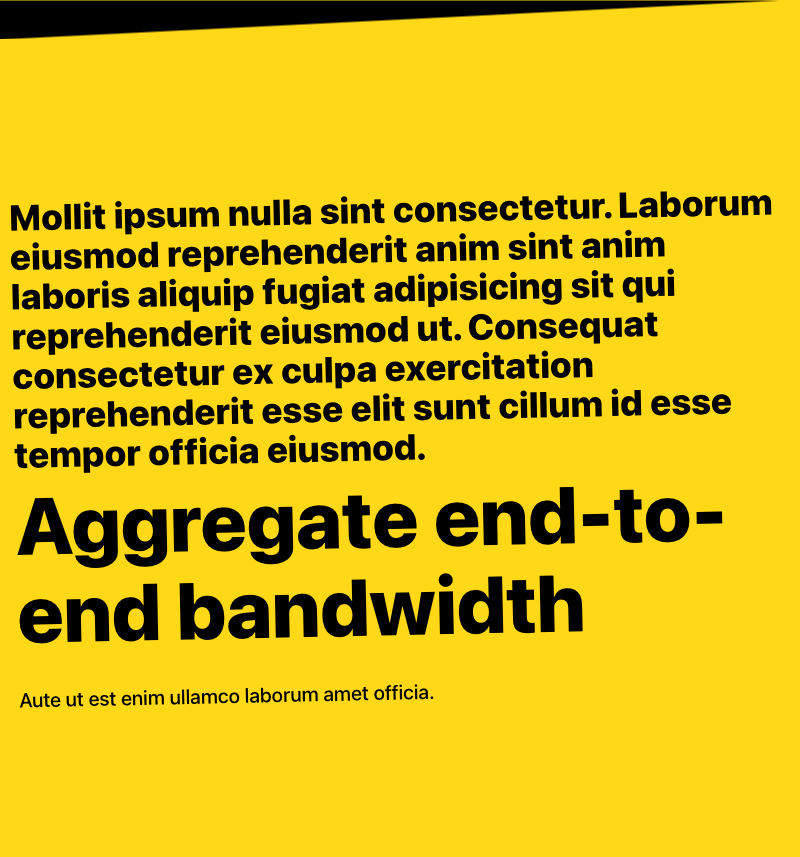
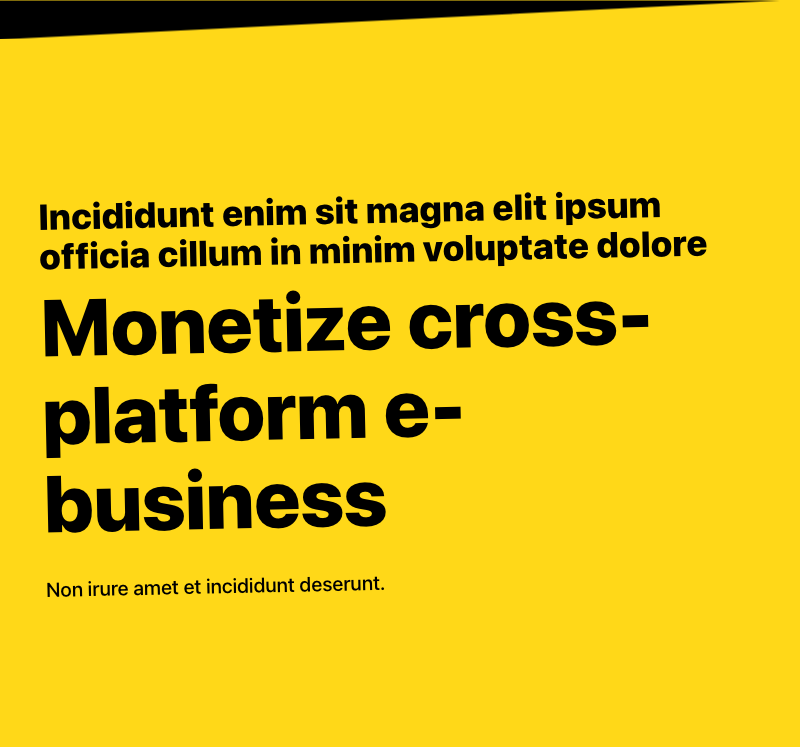
Fix slice screenshots

Changed region(s): [[0.0, 0.2155, 0.9688, 0.8313], [0.375, 0.0, 0.875, 0.0308], [0.0, 0.0308, 0.375, 0.0616]]

diff --git a/.slicemachine/assets/slices/ProjectsSlice/index.stories.js b/.slicemachine/assets/slices/ProjectsSlice/index.stories.js
@@ -5,5 +5,5 @@ export default {
 }
 
 
-export const _Default = () => <MyComponent slice={{"variation":"default","name":"Default","slice_type":"projects_slice","items":[{"image":{"dimensions":{"width":900,"height":500},"alt":"Placeholder image","copyright":null,"url":"https://images.unsplash.com/photo-1606248897732-2c5ffe759c04?w=900&h=500&fit=crop"},"about":[{"type":"paragraph","text":"In cupidatat mollit mollit aliquip quis qui enim tempor aliquip laboris minim proident enim. Nulla ad ex fugiat Lorem in aliqua veniam. Id tempor cupidatat do ipsum deserunt cupidatat commodo commodo ad fugiat eu dolore et.","spans":[]}],"tech":"syndicate turn-key methodologies","url":{"link_type":"Web","url":"https://prismic.io"}},{"image":{"dimensions":{"width":900,"height":500},"alt":"Placeholder image","copyright":null,"url":"https://images.unsplash.com/photo-1547394765-185e1e68f34e?w=900&h=500&fit=crop"},"about":[{"type":"paragraph","text":"Tempor nisi officia officia. Adipisicing quis sit cillum laborum.","spans":[]}],"tech":"reinvent cutting-edge ROI","url":{"link_type":"Web","url":"http://google.com"}},{"image":{"dimensions":{"width":900,"height":500},"alt":"Placeholder image","copyright":null,"url":"https://images.unsplash.com/photo-1596195689404-24d8a8d1c6ea?w=900&h=500&fit=crop"},"about":[{"type":"paragraph","text":"Labore laborum excepteur esse commodo occaecat pariatur proident esse adipisicing cupidatat aute excepteur do. Laborum magna deserunt laboris fugiat ipsum aliqua nisi dolore officia magna cillum sint pariatur.","spans":[]}],"tech":"drive world-class solutions","url":{"link_type":"Web","url":"http://google.com"}}],"primary":{"title":[{"type":"heading1","text":"Monetize best-of-breed supply-chains","spans":[]}]},"id":"_Default"}} />
+export const _Default = () => <MyComponent slice={{"variation":"default","name":"Default","slice_type":"projects_slice","items":[{"image":{"dimensions":{"width":900,"height":500},"alt":"Placeholder image","copyright":null,"url":"https://images.unsplash.com/photo-1560762484-813fc97650a0?w=900&h=500&fit=crop"},"about":[{"type":"paragraph","text":"Ullamco aliquip dolore irure. Duis cupidatat ad exercitation ullamco aliquip aliqua excepteur velit veniam qui magna culpa exercitation.","spans":[]}],"tech":"syndicate viral action-items","url":{"link_type":"Web","url":"http://google.com"}},{"image":{"dimensions":{"width":900,"height":500},"alt":"Placeholder image","copyright":null,"url":"https://images.unsplash.com/photo-1586952518485-11b180e92764?w=900&h=500&fit=crop"},"about":[{"type":"paragraph","text":"Non minim non laborum magna consectetur laborum cupidatat eiusmod amet do sunt exercitation officia minim aute.","spans":[]}],"tech":"iterate strategic platforms","url":{"link_type":"Web","url":"https://slicemachine.dev"}},{"image":{"dimensions":{"width":900,"height":500},"alt":"Placeholder image","copyright":null,"url":"https://images.unsplash.com/photo-1544731612-de7f96afe55f?w=900&h=500&fit=crop"},"about":[{"type":"paragraph","text":"Aliqua elit reprehenderit labore nostrud eiusmod elit laboris eiusmod fugiat elit mollit Lorem. Elit sunt exercitation aute amet nisi amet.","spans":[]}],"tech":"strategize value-added communities","url":{"link_type":"Web","url":"http://google.com"}}],"primary":{"title":[{"type":"heading1","text":"Deploy transparent eyeballs","spans":[]}]},"id":"_Default"}} />
 _Default.storyName = 'Default'

diff --git a/.slicemachine/assets/slices/ContentSlice/index.stories.js b/.slicemachine/assets/slices/ContentSlice/index.stories.js
@@ -5,5 +5,5 @@ export default {
 }
 
 
-export const _Default = () => <MyComponent slice={{"variation":"default","name":"Default","slice_type":"content_slice","items":[],"primary":{"image":{"dimensions":{"width":900,"height":500},"alt":"Placeholder image","copyright":null,"url":"https://images.unsplash.com/photo-1576662712957-9c79ae1280f8?w=900&h=500&fit=crop"},"content":[{"type":"paragraph","text":"Aliquip sit officia velit excepteur occaecat voluptate ipsum cillum ullamco minim. In magna culpa voluptate est. Eu do cupidatat anim irure.","spans":[]}]},"id":"_Default"}} />
+export const _Default = () => <MyComponent slice={{"variation":"default","name":"Default","slice_type":"content_slice","items":[],"primary":{"image":{"dimensions":{"width":900,"height":500},"alt":"Placeholder image","copyright":null,"url":"https://images.unsplash.com/photo-1500648767791-00dcc994a43e?w=900&h=500&fit=crop"},"content":[{"type":"paragraph","text":"Deserunt tempor nisi officia reprehenderit irure incididunt in pariatur commodo est. Cupidatat ex aliquip eu nostrud non non ut fugiat in mollit sunt elit. Id deserunt fugiat aliquip ea ipsum exercitation cupidatat laboris officia laborum enim consequat.","spans":[]},{"type":"paragraph","text":"Ullamco in dolore mollit fugiat velit magna exercitation consequat cillum id irure. Aute est esse anim ex nulla laborum magna ullamco. Labore proident incididunt Lorem magna ut aute id cillum proident culpa nostrud quis labore adipisicing ex.","spans":[]},{"type":"paragraph","text":"Voluptate anim deserunt ullamco sint veniam non cillum. Non commodo eu est nulla ad pariatur aliquip reprehenderit nulla commodo dolore reprehenderit commodo. Laborum laboris exercitation magna sint nisi anim reprehenderit ipsum sint labore culpa magna do.","spans":[]}]},"id":"_Default"}} />
 _Default.storyName = 'Default'

diff --git a/.slicemachine/assets/slices/HeroSlice/index.stories.js b/.slicemachine/assets/slices/HeroSlice/index.stories.js
@@ -5,5 +5,5 @@ export default {
 }
 
 
-export const _Default = () => <MyComponent slice={{"variation":"default","name":"Default","slice_type":"hero_slice","items":[],"primary":{"intro":[{"type":"paragraph","text":"Mollit ipsum nulla sint consectetur. Laborum eiusmod reprehenderit anim sint anim laboris aliquip fugiat adipisicing sit qui reprehenderit eiusmod ut. Consequat consectetur ex culpa exercitation reprehenderit esse elit sunt cillum id esse tempor officia eiusmod.","spans":[]}],"title":[{"type":"heading1","text":"Aggregate end-to-end bandwidth","spans":[]}],"subText":[{"type":"paragraph","text":"Aute ut est enim ullamco laborum amet officia.","spans":[]}]},"id":"_Default"}} />
+export const _Default = () => <MyComponent slice={{"variation":"default","name":"Default","slice_type":"hero_slice","items":[],"primary":{"intro":[{"type":"paragraph","text":"Incididunt enim sit magna elit ipsum officia cillum in minim voluptate dolore. Quis duis labore nulla ex esse Lorem incididunt commodo occaecat nostrud. Occaecat consectetur qui eiusmod reprehenderit adipisicing dolore enim cillum pariatur pariatur.","spans":[]}],"title":[{"type":"heading1","text":"Monetize cross-platform e-business","spans":[]}],"subText":[{"type":"paragraph","text":"Non irure amet et incididunt deserunt. Labore do ullamco labore ullamco ipsum occaecat ea ullamco. Id enim esse consectetur elit enim laboris nisi quis.","spans":[]}]},"id":"_Default"}} />
 _Default.storyName = 'Default'
